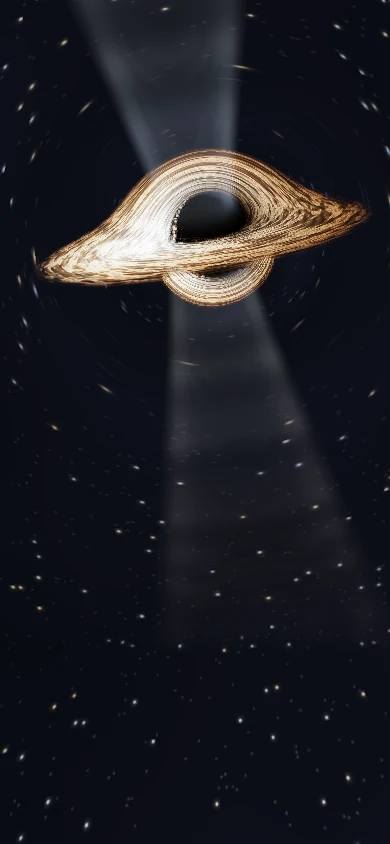
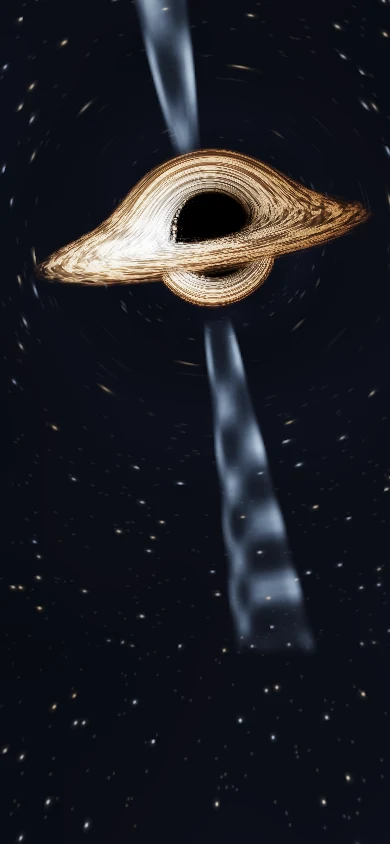
Refine only the academic black hole jets
Move the visible jet bases farther from the black hole, narrow the sheath, and increase its emission. Add two advecting helical filaments, bright knots and smaller turbulent variations while preserving the NPGS geodesics, black hole, disk, sky, camera and page layout.

Refresh rendered fallback frames and cache versions. Verify GLSL ES compilation, desktop and portrait renders, jet animation, and byte-identical non-jet transfer maps at both map resolutions.

diff --git a/index.html b/index.html
@@ -19,7 +19,7 @@
       <nav class="main-nav" aria-label="Main navigation">
         <a class="active" href="/" data-zh="Home page" data-en="Home page">Home page</a>
         <a href="/photography.html" data-zh="摄影集" data-en="Photography">摄影集</a>
-        <a href="/academics.html?v=20260911-npgs1" data-zh="学术集" data-en="Academics">学术集</a>
+        <a href="/academics.html?v=20260911-npgs-jet2" data-zh="学术集" data-en="Academics">学术集</a>
         <a href="/writing.html" data-zh="码字集" data-en="Writing">码字集</a>
         <a href="/projects.html" data-zh="奇怪项目" data-en="Odd Projects">奇怪项目</a>
         <button class="lang-switch" type="button" aria-label="Switch language">EN</button>
@@ -35,7 +35,7 @@
 
     <section class="container entry-grid four-up" aria-label="Site sections">
       <a class="entry-panel" href="/photography.html"><span class="entry-index">01</span><h2 data-zh="摄影集" data-en="Photography">摄影集</h2><p data-zh="旅拍与摄影专题" data-en="Travel and themed photography">旅拍与摄影专题</p><span class="entry-arrow">→</span></a>
-      <a class="entry-panel" href="/academics.html?v=20260911-npgs1"><span class="entry-index">02</span><h2 data-zh="学术集" data-en="Academics">学术集</h2><p data-zh="研究、经历与发表" data-en="Research, background and publications">研究、经历与发表</p><span class="entry-arrow">→</span></a>
+      <a class="entry-panel" href="/academics.html?v=20260911-npgs-jet2"><span class="entry-index">02</span><h2 data-zh="学术集" data-en="Academics">学术集</h2><p data-zh="研究、经历与发表" data-en="Research, background and publications">研究、经历与发表</p><span class="entry-arrow">→</span></a>
       <a class="entry-panel" href="/writing.html"><span class="entry-index">03</span><h2 data-zh="码字集" data-en="Writing">码字集</h2><p data-zh="小说与随笔" data-en="Fiction and essays">小说与随笔</p><span class="entry-arrow">→</span></a>
       <a class="entry-panel" href="/projects.html"><span class="entry-index">04</span><h2 data-zh="奇怪项目" data-en="Odd Projects">奇怪项目</h2><p data-zh="游戏、AI 工具与池沼仿真" data-en="Games, AI tools and pond simulations">游戏、AI 工具与池沼仿真</p><span class="entry-arrow">→</span></a>
     </section>

diff --git a/academics.html b/academics.html
@@ -9,12 +9,12 @@
   <title>学术集 | CMC</title>
   <link rel="stylesheet" href="/assets/css/style.css">
   <link rel="stylesheet" href="/assets/css/site-ui.css?v=20260911-shared-ui">
-  <link rel="stylesheet" href="/assets/css/academics.css?v=20260911-npgs1">
+  <link rel="stylesheet" href="/assets/css/academics.css?v=20260911-npgs-jet2">
 </head>
 <body class="ui-page academic-cosmos">
   <div class="cosmos-bg" aria-hidden="true"><canvas id="academic-black-hole"></canvas></div>
 
-  <header class="site-header"><div class="container nav-wrap"><a class="site-title" href="/">CMC</a><nav class="main-nav" aria-label="Main navigation"><a href="/" data-zh="Home page" data-en="Home page">Home page</a><a href="/photography.html" data-zh="摄影集" data-en="Photography">摄影集</a><a class="active" href="/academics.html?v=20260911-npgs1" data-zh="学术集" data-en="Academics">学术集</a><a href="/writing.html" data-zh="码字集" data-en="Writing">码字集</a><a href="/projects.html" data-zh="奇怪项目" data-en="Odd Projects">奇怪项目</a><button class="lang-switch" type="button" aria-label="Switch language">EN</button></nav></div></header>
+  <header class="site-header"><div class="container nav-wrap"><a class="site-title" href="/">CMC</a><nav class="main-nav" aria-label="Main navigation"><a href="/" data-zh="Home page" data-en="Home page">Home page</a><a href="/photography.html" data-zh="摄影集" data-en="Photography">摄影集</a><a class="active" href="/academics.html?v=20260911-npgs-jet2" data-zh="学术集" data-en="Academics">学术集</a><a href="/writing.html" data-zh="码字集" data-en="Writing">码字集</a><a href="/projects.html" data-zh="奇怪项目" data-en="Odd Projects">奇怪项目</a><button class="lang-switch" type="button" aria-label="Switch language">EN</button></nav></div></header>
 
   <main>
     <section class="container page-head compact-head">
@@ -65,7 +65,7 @@
 
   <footer class="site-footer"><div class="container footer-wrap"><span>© <span id="year"></span> CMC</span></div></footer>
   <script src="/assets/js/main.js"></script>
-  <script src="/assets/js/academic-black-hole.js?v=20260911-npgs1" defer></script>
+  <script src="/assets/js/academic-black-hole.js?v=20260911-npgs-jet2" defer></script>
   <script src="/assets/js/site-ui.js?v=20260911-shared-ui" defer></script>
 </body>
 </html>

diff --git a/assets/css/academics.css b/assets/css/academics.css
@@ -18,7 +18,7 @@ body.academic-cosmos{
   z-index:0;
   overflow:hidden;
   pointer-events:none;
-  background:#030710 url("../images/academic-npgs-desktop.webp") center / cover no-repeat;
+  background:#030710 url("../images/academic-npgs-desktop.webp?v=20260911-npgs-jet2") center / cover no-repeat;
 }
 
 .academic-cosmos .cosmos-bg canvas{
@@ -163,7 +163,7 @@ body.academic-cosmos{
 
 @media(max-aspect-ratio:82/100){
   .academic-cosmos .cosmos-bg{
-    background-image:url("../images/academic-npgs-mobile.webp");
+    background-image:url("../images/academic-npgs-mobile.webp?v=20260911-npgs-jet2");
   }
 }
 

diff --git a/assets/js/academic-black-hole.js b/assets/js/academic-black-hole.js
@@ -6,7 +6,7 @@
   'use strict';
   const canvas = document.getElementById('academic-black-hole');
   if (!canvas) return;
-  const VERSION = '20260911-npgs1';
+  const VERSION = '20260911-npgs-jet2';
   const baseUrl = new URL('../shaders/', document.currentScript.src);
   const reducedMotion = matchMedia('(prefers-reduced-motion: reduce)');
   const mobile = matchMedia('(max-width: 820px)');
